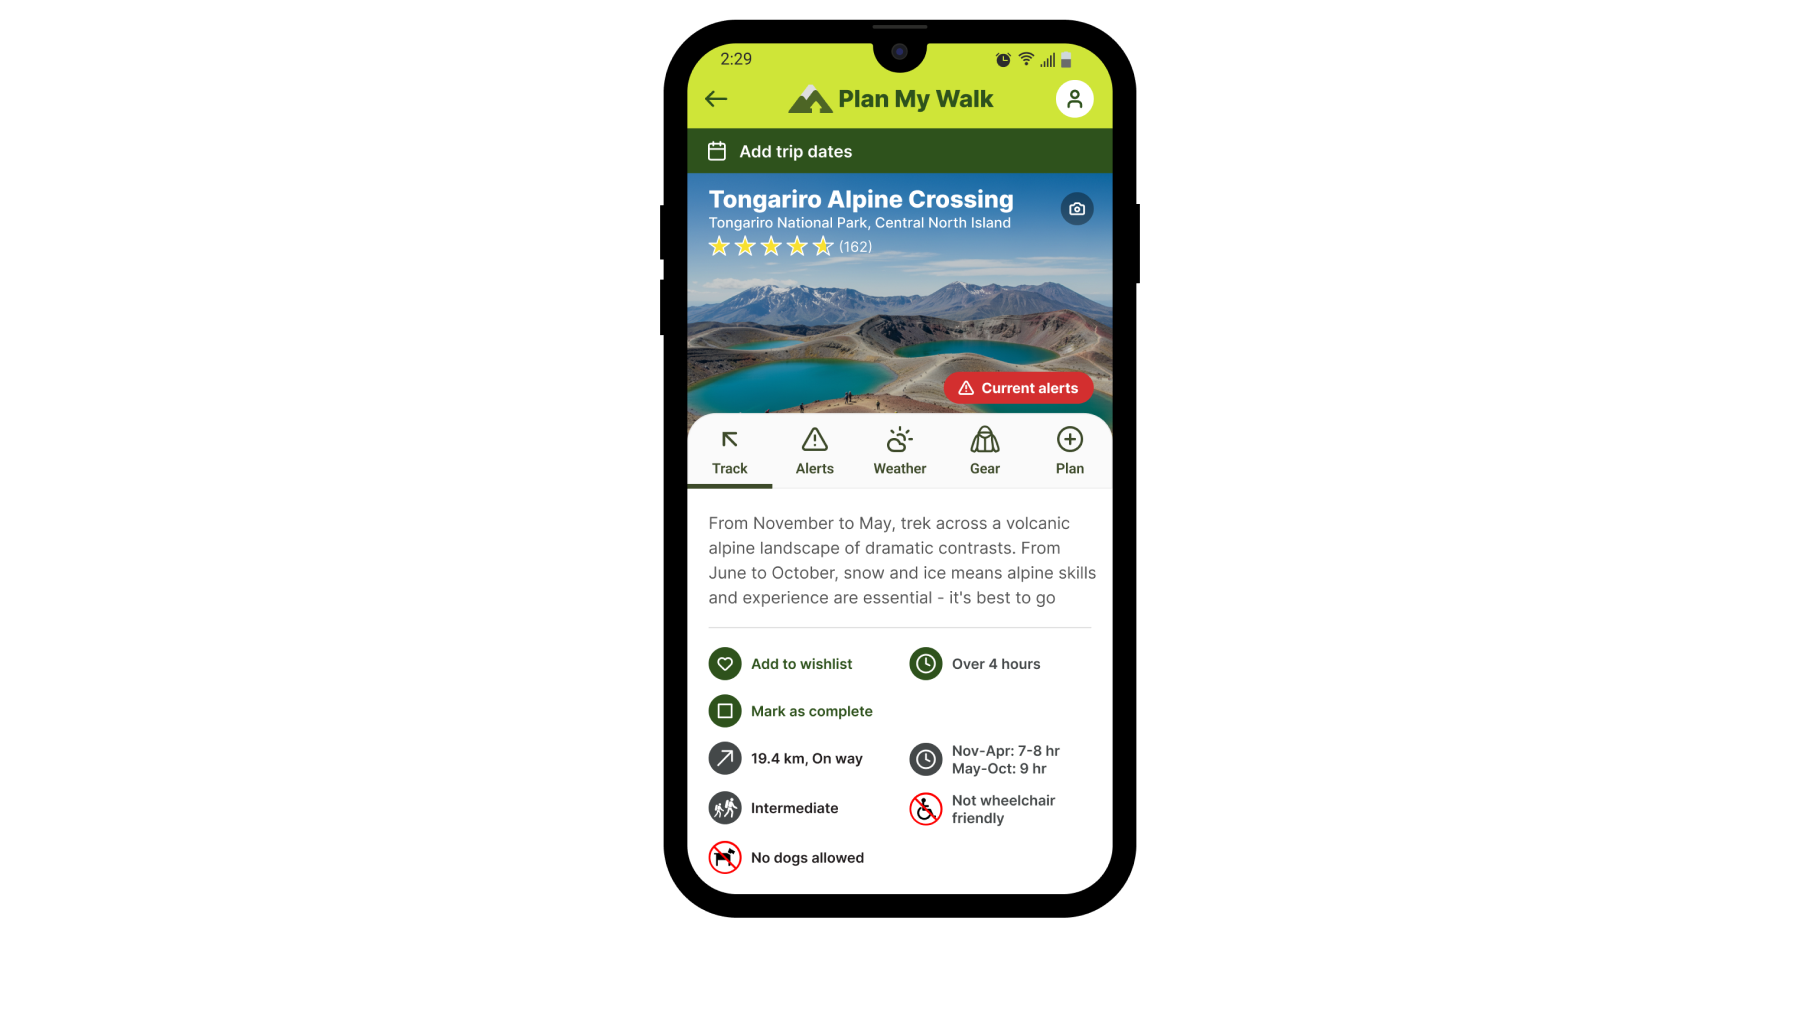
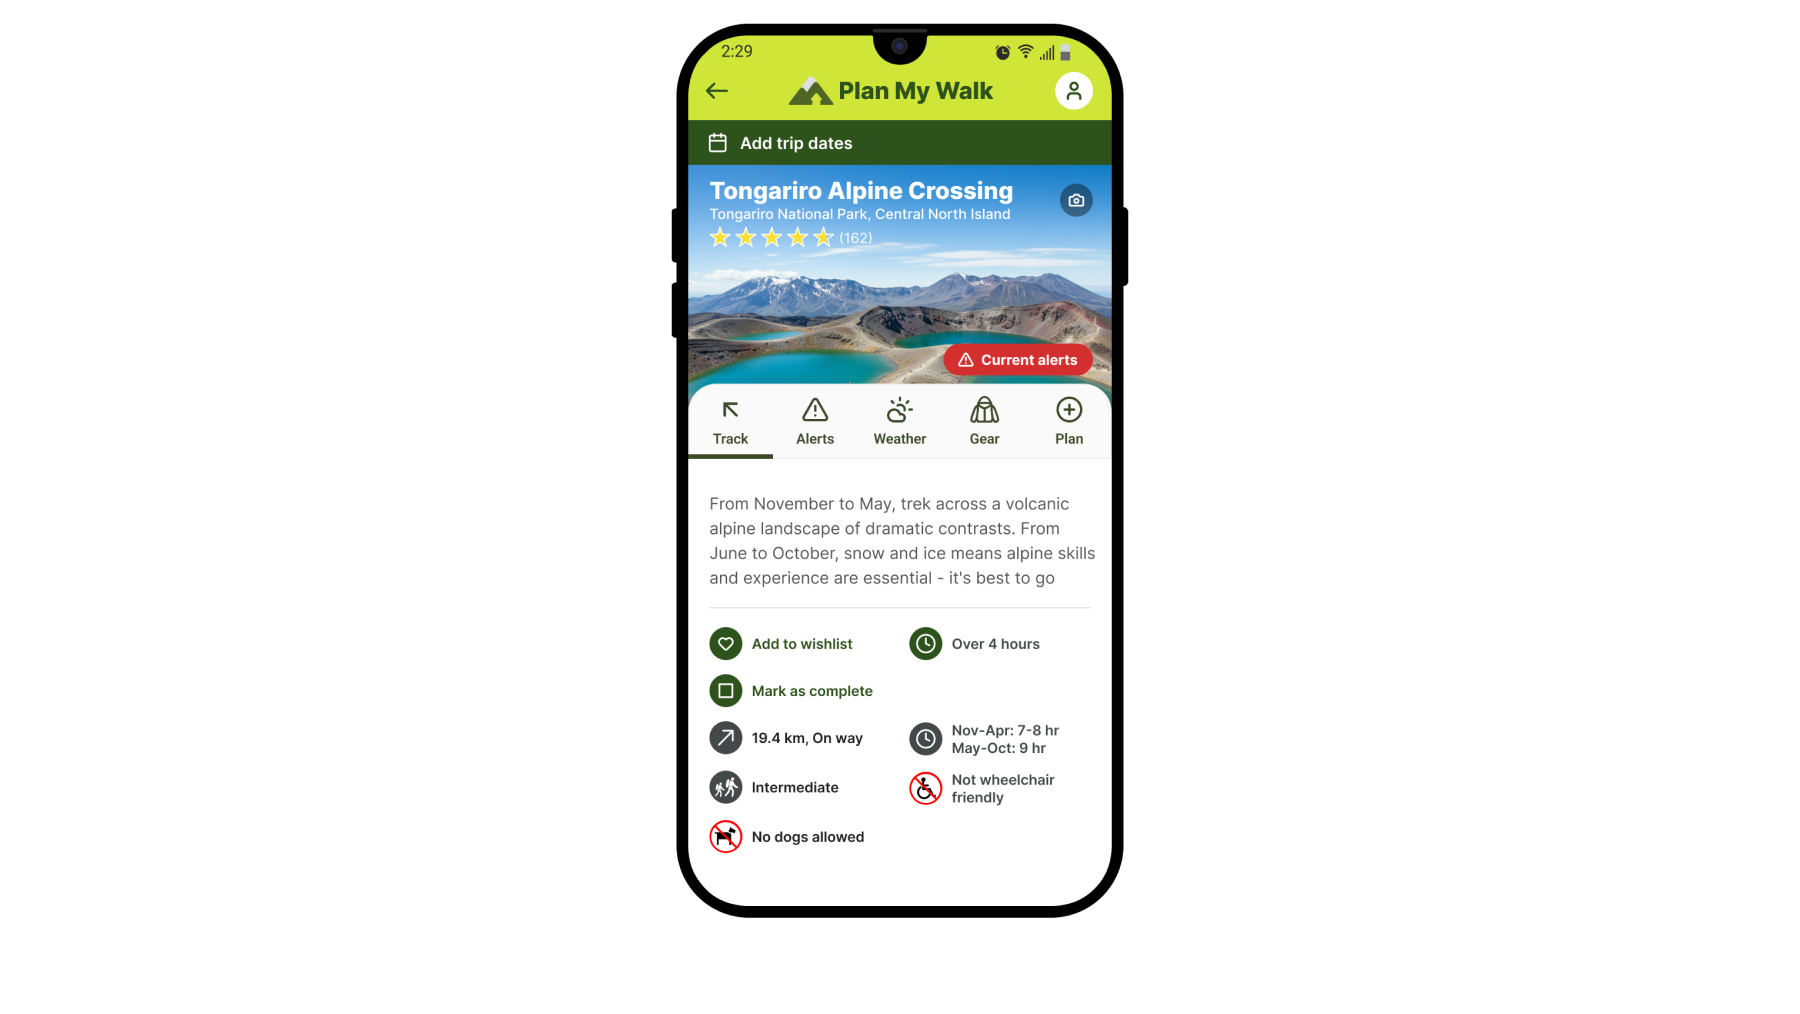
MSC case study updates

Changed region(s): [[0.3422, 0.0, 0.6533, 0.9172]]

diff --git a/src/data/case-studies/keeping-kiwis-safe.ts b/src/data/case-studies/keeping-kiwis-safe.ts
@@ -79,7 +79,8 @@ export const keepingKiwisSafe: CaseStudy = {
         {
           src: "/images/keeping-kiwis-safe/top-rescue.jpg",
           alt: "A rescue helicopter winching a person off a bush-clad ridge",
-          caption: "Check the weather for the time of the trip you’re planning.",
+          caption:
+            "6,000 incidents. 540 search and rescues. Every year, and rising. Plan My Walk was built to bring that number down.",
           captionTone: "light",
           aspect: "1/1",
         },
@@ -160,14 +161,14 @@ export const keepingKiwisSafe: CaseStudy = {
     },
     {
       // Figma "Case-Study Assets" (245:233187), same slot Thrive uses for
-      // its walkthrough video (there's a Video.png in the Plan My Walk
-      // asset folder) — swap to a YouTube embed (`youtubeId`) if that's
-      // the intent, otherwise a single wide still.
+      // its walkthrough video. Renders the YouTube thumbnail with a play
+      // button; click opens the watch page in a new window (same as
+      // farmiq-thrive.ts — this video also has embedding disabled).
       type: "imageBand",
       layout: "single",
       images: [
         {
-          src: "/images/keeping-kiwis-safe/video-still.png",
+          youtubeId: "k4YzJ4wNcVM",
           alt: "Plan My Walk “Want to be inspired?” promo — trampers walking a valley track toward snowy mountains",
           aspect: "710/400",
         },
@@ -305,13 +306,14 @@ export const keepingKiwisSafe: CaseStudy = {
     },
     {
       type: "quoteSlider",
-      // accentColors are placeholders — hand-pick each from its final photo
-      // (see design-decision-workflow) once the quote images are exported.
+      // Figma "Quotes" (307:353620). accentColors hand-picked from a named
+      // feature in each photo (see design-decision-workflow): 1 = sunlit
+      // bush green, 2 = the deep alpine lake, 3 = the tramper's red pack.
       slides: [
         {
           image: {
-            src: "/images/keeping-kiwis-safe/quote-laptop.png",
-            alt: "A woman and a boy looking at a track page on the Plan My Walk website",
+            src: "/images/keeping-kiwis-safe/quote-laptop.jpg",
+            alt: "A woman and a boy at a kitchen bench looking at a track page on the Plan My Walk website",
             aspect: "834/440",
           },
           quote:
@@ -322,25 +324,27 @@ export const keepingKiwisSafe: CaseStudy = {
         },
         {
           image: {
-            alt: "Hiker on a New Zealand track",
+            src: "/images/keeping-kiwis-safe/quote-vista.jpg",
+            alt: "Three trampers looking out over a broad river valley and alpine lake from a mountain saddle",
             aspect: "834/440",
           },
           quote:
             "I love this app! It has made finding new tracks, gear lists and planning a trip safely so easy. Highly recommend to anyone considering a hike short or long in NZ.",
           attribution: "Plan My Walk user · App Store review",
           side: "left",
-          accentColor: "#2E5A6B",
+          accentColor: "#123F44",
         },
         {
           image: {
-            alt: "Alice Adventuring on a backcountry trip",
+            src: "/images/keeping-kiwis-safe/quote-forest.jpg",
+            alt: "A tramper with a red-covered pack pausing on a moss-lined beech forest track",
             aspect: "834/440",
           },
           quote:
             "I’m a relatively risk-averse tramper, I always let someone know where I’m going, and often overpack ‘just in case.’ On Plan My Walk, I write down all my plans and the app emailed this to my chosen emergency contact person. My husband had all the info he needed in case I didn’t contact him at our designated time.",
           attribution: "Alice Adventuring · Content Creator",
           side: "right",
-          accentColor: "#6B4A2F",
+          accentColor: "#B23A26",
         },
       ],
     },
